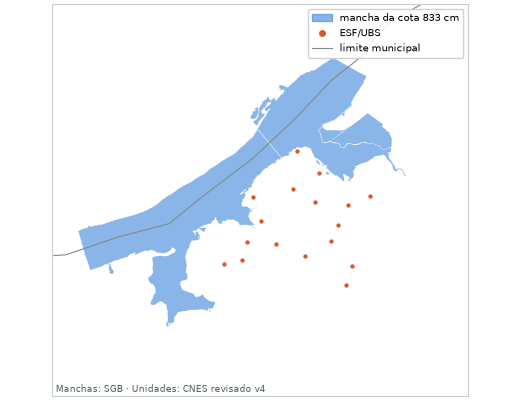
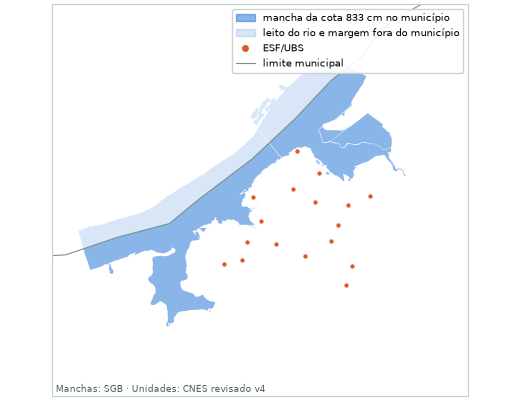
cheia e saúde: "cerca de N anos" nas frases e área no município como coluna principal
Tempo de retorno: a tabela segue com camada e documento (cota 1.205: 9,0 e 9,2) e a
nota; nas frases, "cerca de N anos" quando os dois diferem menos de 0,5 ano (limite no
JSON, regra aplicada na síntese e na cheia e saúde). Área: "Área no município" vem antes
de "Mancha inteira (SGB)", com a nota "inclui o leito do rio e a margem fora do
município"; mini-mapa com a parte fora do município em tom claro. Nenhum valor mudou.

Changed region(s): [[0.1538, 0.03, 0.8923, 0.63]]

diff --git a/scripts/paineis/test_tela.js b/scripts/paineis/test_tela.js
@@ -34,6 +34,11 @@ const dec1 = (n) => n.toLocaleString("pt-BR", { minimumFractionDigits: 1, maximu
 const DIA = 864e5;
 const diaNum = (iso) => Math.round(Date.parse(iso + "T00:00:00Z") / DIA);
 const diaTxt = (n) => { const d = new Date(n * DIA); return `${String(d.getUTCDate()).padStart(2, "0")}/${String(d.getUTCMonth() + 1).padStart(2, "0")}/${String(d.getUTCFullYear()).slice(2)}`; };
+// regra das frases do tempo de retorno (B.1 da rodada 115): camada e documento diferem menos que o limite do JSON → "cerca de N anos"
+const trNaFrase = (r, lim) => {
+  const c = r.tr_anos_camada, d = r.tr_anos_documento;
+  return d != null && c !== d && Math.abs(c - d) < lim ? `cerca de ${fmtInt(Math.round((c + d) / 2))} anos` : `${dec1(c)} anos`;
+};
 const dataBR = (iso) => { const m = /^(\d{4})-(\d{2})-(\d{2})/.exec(iso || ""); return m ? `${m[3]}/${m[2]}/${m[1]}` : iso || ""; };
 
 // ------------------------------------------------------------------ telas
@@ -313,7 +318,7 @@ const TELAS = {
       const cotas = p.cotas.dados.map((r) => r.cota_cm);
       return {
         tabelaCotas: p.cotas.dados.map((r) => [`${fmtInt(r.cota_cm)} cm`, `${dec1(r.tr_anos_camada)} anos`, `${dec1(r.tr_anos_documento)} anos`,
-          `${fmt1(r.area_km2)} km²`, `${fmt1(r.area_no_municipio_km2)} km²`, r.periodo_referencia, fmtInt(r.esf_ubs_dentro)]),
+          `${fmt1(r.area_no_municipio_km2)} km²`, `${fmt1(r.area_km2)} km²`, r.periodo_referencia, fmtInt(r.esf_ubs_dentro)]),
         tabelaUnidades: p.unidades.dados.filter((u) => !u.fora_das_comparacoes).map((u) => [u.nome, u.classe, ...cotas.map((k) => (u[`dentro_${k}`] ? "dentro" : "fora")), "ver na saúde →"]),
         tabelaSetores: p.setor.dados.map((r, i) => [r.setor, r.local, r.tipologia, r.grau_risco, n(p.setor, r, i, "edificacoes"), n(p.setor, r, i, "domicilios"), n(p.setor, r, i, "pessoas")]),
         tabelaBater: p.bater.dados.map((r) => [r.area_bater, tx(r.origem), tx(r.observacao)]),
@@ -675,14 +680,15 @@ async function testesExtrasSintese(browser, base, prod) {
         nav: [...document.querySelectorAll(".cabecalho-nav a.nav-item")].map((a) => a.getAttribute("href")) };
     });
     const p = prod, ult = (x) => x.dados[x.dados.length - 1];
-    const tr = p.cotas.dados.map((x) => x.tr_anos_camada);
+    const ordTr = [...p.cotas.dados].sort((a, b) => a.tr_anos_camada - b.tr_anos_camada);
+    const trS = (r) => trNaFrase(r, p.cotas.meta.dif_tr_cerca_anos).replace(/ anos$/, "");
     const inm = ult(p.inmet), parcial = p.inmet.meta.avisos.find((a) => a.tipo === "parcial" && a.onde && a.onde.ano === inm.ano);
     const fech = p.sinan.dados.filter((x) => !x.preliminar), sn = fech[fech.length - 1], pre = p.sinan.dados.find((x) => x.preliminar);
     const ind = ult(p.ind);
     const fr = p.rio.dados[0];
     const esperado = {
       faixa: fr.estado === "evento_em_curso" ? `⚠ Rio Uruguai (${p.rio.meta.fonte_curta}): ${p.rio.meta.avisos.map((a) => a.texto).join(" · ")}` : null,
-      cheia: [`${p.cotas.dados.length} manchas do SGB (cotas ${p.cotas.dados.map((x) => fmtInt(x.cota_cm)).join(", ")} cm), tempo de retorno de ${fmt1(Math.min(...tr))} a ${fmt1(Math.max(...tr))} anos`,
+      cheia: [`${p.cotas.dados.length} manchas do SGB (cotas ${p.cotas.dados.map((x) => fmtInt(x.cota_cm)).join(", ")} cm), tempo de retorno de ${trS(ordTr[0])} a ${trS(ordTr[ordTr.length - 1])} anos`,
               p.cotas.meta.notas.cs_frase_unidades],
       clima: [`Chuva em ${ult(p.precip).ano}: ${fmtInt(ult(p.precip).merge_mm)} mm (${p.precip.meta.fonte_curta})`,
               `Dias com máxima ≥ 35 °C em ${inm.ano}: ${fmtInt(inm.dias_calor_extremo)} (${p.inmet.meta.fonte_curta})${parcial ? ` · ${parcial.texto}` : ""}`],

diff --git a/dashboards/cheia-saude.html b/dashboards/cheia-saude.html
@@ -57,6 +57,7 @@
       <div class="card-head"><span class="card-title">As manchas por cota</span><span class="card-meta" id="meta-cotas"></span></div>
       <div id="aviso-cotas"></div>
       <div class="tabela-cartoes-wrap" style="margin-top:10px;"><table class="data-table tabela-cartoes tabela-cotas" id="tabelaCotas"></table></div>
+      <p class="nota-grafico" data-nota="cs_nota_area"></p>
       <p class="nota-grafico" data-nota="cs_nota_tr"></p>
     </div>
   </div>
@@ -134,6 +135,10 @@ const BLOCOS = {maximas: 'chart-maximas', diario: 'chart-nivel', cotas: 'tabelaC
 const ESPERA_MORADORES = ['IN09', 'IN10', 'IN11'];
 const ESPERA_ACESSO = ['SA09', 'SA11', 'SA12', 'SA13', 'SA15'];
 const dec1 = v => v.toLocaleString('pt-BR', {minimumFractionDigits: 1, maximumFractionDigits: 1});
+/* tempo de retorno nas frases: se camada e documento do SGB diferem menos que dif_tr_cerca_anos (do JSON),
+   "cerca de N anos"; senão, o da camada com uma casa. A tabela mostra sempre os dois valores. */
+const trFrase = (r, lim) => { const c = r.tr_anos_camada, d = r.tr_anos_documento;
+  return (d != null && c !== d && Math.abs(c - d) < lim) ? `cerca de ${fmtInt(Math.round((c + d) / 2))} anos` : `${dec1(c)} anos`; };
 const setText = (id, t) => { const e = document.getElementById(id); if(e) e.textContent = t; };
 const dataBR = iso => { const m = /^(\d{4})-(\d{2})-(\d{2})/.exec(iso || ''); return m ? `${m[3]}/${m[2]}/${m[1]}` : (iso || ''); };
 const DIA = 864e5;
@@ -205,7 +210,7 @@ async function iniciar(){
     img.src = `${P.raiz ? P.raiz() : '..'}/data/paineis/${r.imagem}`;
     img.alt = r.alt;
     setText('titulo-mapa', `Mancha da cota ${fmtInt(r.cota_cm)} cm`);
-    setText('meta-mapa', `${cotas.meta.fonte_curta} · tempo de retorno ${dec1(r.tr_anos_camada)} anos`);
+    setText('meta-mapa', `${cotas.meta.fonte_curta} · tempo de retorno ${trFrase(r, cotas.meta.dif_tr_cerca_anos)}`);
     document.getElementById('link-mapa').href = `${P.raiz ? P.raiz() : '..'}/index.html?cota=${r.cota_cm}`;
     document.querySelectorAll('#tabelaCotas tbody tr').forEach(tr => tr.classList.toggle('linha-ativa', +tr.dataset.cota === r.cota_cm));
   }
@@ -214,8 +219,8 @@ async function iniciar(){
     P.aviso(document.getElementById('aviso-cotas'), cotas.meta.avisos.filter(a => a.tipo === 'em_confirmacao'));
     const t = document.getElementById('tabelaCotas');
     const col = [['Cota', r => `${fmtInt(r.cota_cm)} cm`], ['Tempo de retorno (camada)', r => `${dec1(r.tr_anos_camada)} anos`],
-                 ['Tempo de retorno (documento)', r => `${dec1(r.tr_anos_documento)} anos`], ['Área da mancha', r => `${fmt1(r.area_km2)} km²`],
-                 ['Área no município', r => `${fmt1(r.area_no_municipio_km2)} km²`], ['Período das cenas', r => r.periodo_referencia], ['ESF/UBS dentro', r => fmtInt(r.esf_ubs_dentro)]];
+                 ['Tempo de retorno (documento)', r => `${dec1(r.tr_anos_documento)} anos`], ['Área no município', r => `${fmt1(r.area_no_municipio_km2)} km²`],
+                 ['Mancha inteira', r => `${fmt1(r.area_km2)} km²`], ['Período das cenas', r => r.periodo_referencia], ['ESF/UBS dentro', r => fmtInt(r.esf_ubs_dentro)]];
     t.innerHTML = `<thead><tr>${col.map((c, j) => `<th class="${j === 5 ? 'col-texto' : ''}">${c[0]}</th>`).join('')}</tr></thead><tbody>${
       cotas.dados.map(r => `<tr data-cota="${r.cota_cm}">${col.map((c, j) => `<td class="${j === 0 ? 'col-nome' : ''}${j === 5 ? ' col-texto' : ''}" data-rotulo="${c[0]}">${c[1](r)}</td>`).join('')}</tr>`).join('')}</tbody>`;
   }

diff --git a/dashboards/sintese.html b/dashboards/sintese.html
@@ -110,8 +110,12 @@ async function iniciar(){
   }
   /* ---- cheia e acesso à saúde ---- */
   if(cotas){
-    const d = cotas.dados, tr = d.map(x => x.tr_anos_camada);
-    item('lista-cheia', `<b>${d.length}</b> manchas do SGB (cotas ${d.map(x => fmtInt(x.cota_cm)).join(', ')} cm), tempo de retorno de ${fmt1(Math.min(...tr))} a ${fmt1(Math.max(...tr))} anos`);
+    const d = cotas.dados, lim = cotas.meta.dif_tr_cerca_anos;
+    // tempo de retorno na frase: a mesma regra da tela da cheia ("cerca de N anos" quando camada e documento diferem menos que lim)
+    const trTxt = r => { const c = r.tr_anos_camada, k = r.tr_anos_documento;
+      return (k != null && c !== k && Math.abs(c - k) < lim) ? `cerca de ${fmtInt(Math.round((c + k) / 2))}` : c.toLocaleString('pt-BR', {minimumFractionDigits: 1, maximumFractionDigits: 1}); };
+    const ord = [...d].sort((x, y) => x.tr_anos_camada - y.tr_anos_camada);
+    item('lista-cheia', `<b>${d.length}</b> manchas do SGB (cotas ${d.map(x => fmtInt(x.cota_cm)).join(', ')} cm), tempo de retorno de ${trTxt(ord[0])} a ${trTxt(ord[ord.length - 1])} anos`);
     item('lista-cheia', `<b>${P.notaHtml(cotas.meta.notas.cs_frase_unidades)}</b>`);
     document.getElementById('selo-cheia').appendChild(P.selo(cotas.meta.selo));
     P.aviso(document.getElementById('aviso-cheia'), cotas.meta.avisos.filter(a => a.tipo === 'em_confirmacao'));

diff --git a/scripts/paineis/dados_inundacao.py b/scripts/paineis/dados_inundacao.py
@@ -57,6 +57,7 @@ LIMITE_PNG = 150 * 1024
 FONTE_RODAPE = "Manchas de inundação por cota — SGB (Serviço Geológico do Brasil), relatório de 2023"
 NOTA_SUPRESSAO = "não se aplica: sem contagem de pessoas; só número de unidades de saúde"
 AVISO_CONFERENCIA = "pessoas expostas e acesso: em conferência"
+DIF_TR_CERCA = 0.5  # camada e documento diferem menos que isso: as frases das telas dizem "cerca de N anos" (regra aplicada nas telas)
 
 
 def manchas_acumuladas() -> list[tuple[int, float, object]]:
@@ -83,17 +84,22 @@ def unidades() -> gpd.GeoDataFrame:
 
 
 def mini_mapa(cota: int, mancha, limite: gpd.GeoDataFrame, u: gpd.GeoDataFrame) -> bytes:
-    """PNG pequeno: enquadra a mancha da maior cota e as unidades urbanas; sem mapa de fundo."""
+    """PNG pequeno: enquadra a mancha da maior cota e as unidades urbanas; sem mapa de fundo.
+    A parte da mancha dentro do município (a área principal da tela) vai em cor cheia; a parte fora
+    (leito do rio e margem fora do município, que o SGB inclui na mancha inteira) vai em tom claro."""
     fig, ax = plt.subplots(figsize=(5.2, 4.0), dpi=100)
     limite.boundary.plot(ax=ax, color="#7c8f8c", linewidth=0.8)
-    gpd.GeoSeries([mancha], crs=CRS_PADRAO).plot(ax=ax, color="#2a78d6", alpha=0.55, linewidth=0)
+    lim_geom = limite.union_all()
+    gpd.GeoSeries([mancha.difference(lim_geom)], crs=CRS_PADRAO).plot(ax=ax, color="#2a78d6", alpha=0.18, linewidth=0)
+    gpd.GeoSeries([mancha.intersection(lim_geom)], crs=CRS_PADRAO).plot(ax=ax, color="#2a78d6", alpha=0.55, linewidth=0)
     comp = u[u["comparavel"]]
     comp.plot(ax=ax, color="#d95926", markersize=14, edgecolor="white", linewidth=0.6, zorder=3)
     ax.set_xlim(*EXTENSAO[0]); ax.set_ylim(*EXTENSAO[1])
     ax.set_aspect("equal"); ax.set_xticks([]); ax.set_yticks([])
     for s in ax.spines.values():
         s.set_color("#c7cec9")
-    ax.legend(handles=[Patch(color="#2a78d6", alpha=0.55, label=f"mancha da cota {milhar(cota)} cm"),
+    ax.legend(handles=[Patch(color="#2a78d6", alpha=0.55, label=f"mancha da cota {milhar(cota)} cm no município"),
+                       Patch(color="#2a78d6", alpha=0.18, label="leito do rio e margem fora do município"),
                        Line2D([], [], marker="o", color="w", markerfacecolor="#d95926", markersize=6, label="ESF/UBS"),
                        Line2D([], [], color="#7c8f8c", linewidth=0.8, label="limite municipal")],
               loc="upper right", fontsize=7, frameon=True, framealpha=0.9)
@@ -148,7 +154,8 @@ def gerar(codigo_ibge: str = "4322400", forcar: bool = False, so: str | None = N
                        "area_km2": round(geom.area / 1e6, 2), "area_no_municipio_km2": round(geom.intersection(lim_geom).area / 1e6, 2),
                        "periodo_referencia": tr_doc.loc[cota, "periodo_de_referencia"],
                        "esf_ubs_dentro": n_dentro, "imagem": f"img/{img.name}",
-                       "alt": (f"Mapa da mancha de inundação da cota {milhar(cota)} cm (SGB) sobre o limite de Uruguaiana, com as 21 ESF/UBS "
+                       "alt": (f"Mapa da mancha de inundação da cota {milhar(cota)} cm (SGB) sobre o limite de Uruguaiana: a parte dentro do "
+                               f"município em azul forte e, em azul claro, o leito do rio e a margem fora do município; as 21 ESF/UBS "
                                f"como pontos laranja: {n_dentro} dentro da mancha.")})
     if any(l["esf_ubs_dentro"] for l in linhas):
         raise ValueError("cálculo deu ESF/UBS dentro de mancha; parar e conferir (esperado: 0 em todas as cotas)")
@@ -158,9 +165,11 @@ def gerar(codigo_ibge: str = "4322400", forcar: bool = False, so: str | None = N
                              f"({', '.join(str(l['cota_cm']) for l in linhas)} cm). A Equipe de Saúde Prisional fica fora da contagem. "
                              "Estar fora da mancha não garante acesso pelas ruas: o cálculo de acesso está em conferência."),
         "cs_frase_unidades": f"{max(l['esf_ubs_dentro'] for l in linhas)} de 21 ESF/UBS dentro da mancha em todas as cotas",
-        "cs_nota_tr": ("Tempo de retorno: o da camada do SGB. " + " ".join(
-            f"Na cota {milhar(l['cota_cm'])} cm, a camada diz {dec1(l['tr_anos_camada'])} anos e o documento do SGB, {dec1(l['tr_anos_documento'])} anos."
-            for l in linhas if l["cota_cm"] in dif_tr) if dif_tr else "Tempo de retorno da camada do SGB, igual ao do documento."),
+        "cs_nota_tr": (" ".join(
+            f"Na cota {milhar(l['cota_cm'])} cm, a camada do SGB diz {dec1(l['tr_anos_camada'])} anos e o documento do SGB, {dec1(l['tr_anos_documento'])} anos."
+            for l in linhas if l["cota_cm"] in dif_tr) + f" Nas frases, quando os dois diferem em menos de {dec1(DIF_TR_CERCA)} ano, o tempo de retorno aparece "
+            "arredondado (\"cerca de N anos\"); nos demais casos, vale o da camada." if dif_tr else "Tempo de retorno da camada do SGB, igual ao do documento."),
+        "cs_nota_area": "Área principal: a parte da mancha dentro do município. Mancha inteira (SGB): inclui o leito do rio e a margem fora do município.",
     }
     c = dict(codigo_ibge=codigo_ibge, script=SCRIPT, unidade_espacial="mancha de inundação (município)", selo="em_confirmacao")
     p1 = comum.montar_produto(
@@ -168,13 +177,13 @@ def gerar(codigo_ibge: str = "4322400", forcar: bool = False, so: str | None = N
         fonte_curta="SGB", fonte="SGB, manchas de inundação por cota (relatório de 2023); unidades do CNES revisado v4",
         unidade_medida="cm; anos; km²; unidades", periodo={"inicio": "2015", "fim": "2023"}, dados_ate="2023",
         avisos=[{"tipo": "em_confirmacao", "texto": AVISO_CONFERENCIA},
-                {"tipo": "metodo", "texto": "mancha acumulada: união das manchas de cota menor ou igual; área em SIRGAS 2000 / UTM 21S, da mancha inteira como o SGB publica (inclui rio e margem fora do município) e só da parte dentro do município"},
+                {"tipo": "metodo", "texto": "mancha acumulada: união das manchas de cota menor ou igual; área em SIRGAS 2000 / UTM 21S, da parte dentro do município (área principal) e da mancha inteira como o SGB publica (inclui o leito do rio e a margem fora do município)"},
                 {"tipo": "metodo", "texto": "Equipe de Saúde Prisional fora da contagem de unidades"}],
         colunas=[{"nome": "cota_cm", "tipo": "int"}, {"nome": "tr_anos_camada", "tipo": "float"}, {"nome": "tr_anos_documento", "tipo": "float"},
                  {"nome": "area_km2", "tipo": "float"}, {"nome": "area_no_municipio_km2", "tipo": "float"},
                  {"nome": "periodo_referencia", "tipo": "texto"}, {"nome": "esf_ubs_dentro", "tipo": "int"},
                  {"nome": "imagem", "tipo": "texto"}, {"nome": "alt", "tipo": "texto"}],
-        dados=linhas, extras={"fonte_rodape": FONTE_RODAPE, "telas": ["sintese", "cheia-saude"], "notas": notas, "comparacao": False}, **c)
+        dados=linhas, extras={"fonte_rodape": FONTE_RODAPE, "telas": ["sintese", "cheia-saude"], "notas": notas, "dif_tr_cerca_anos": DIF_TR_CERCA, "comparacao": False}, **c)
     lu = []
     for i, r in u.reset_index(drop=True).iterrows():
         linha = {"cnes": str(r["cnes"]), "nome": r["nome"], "classe": r["classe"], "fora_das_comparacoes": not bool(r["comparavel"])}
